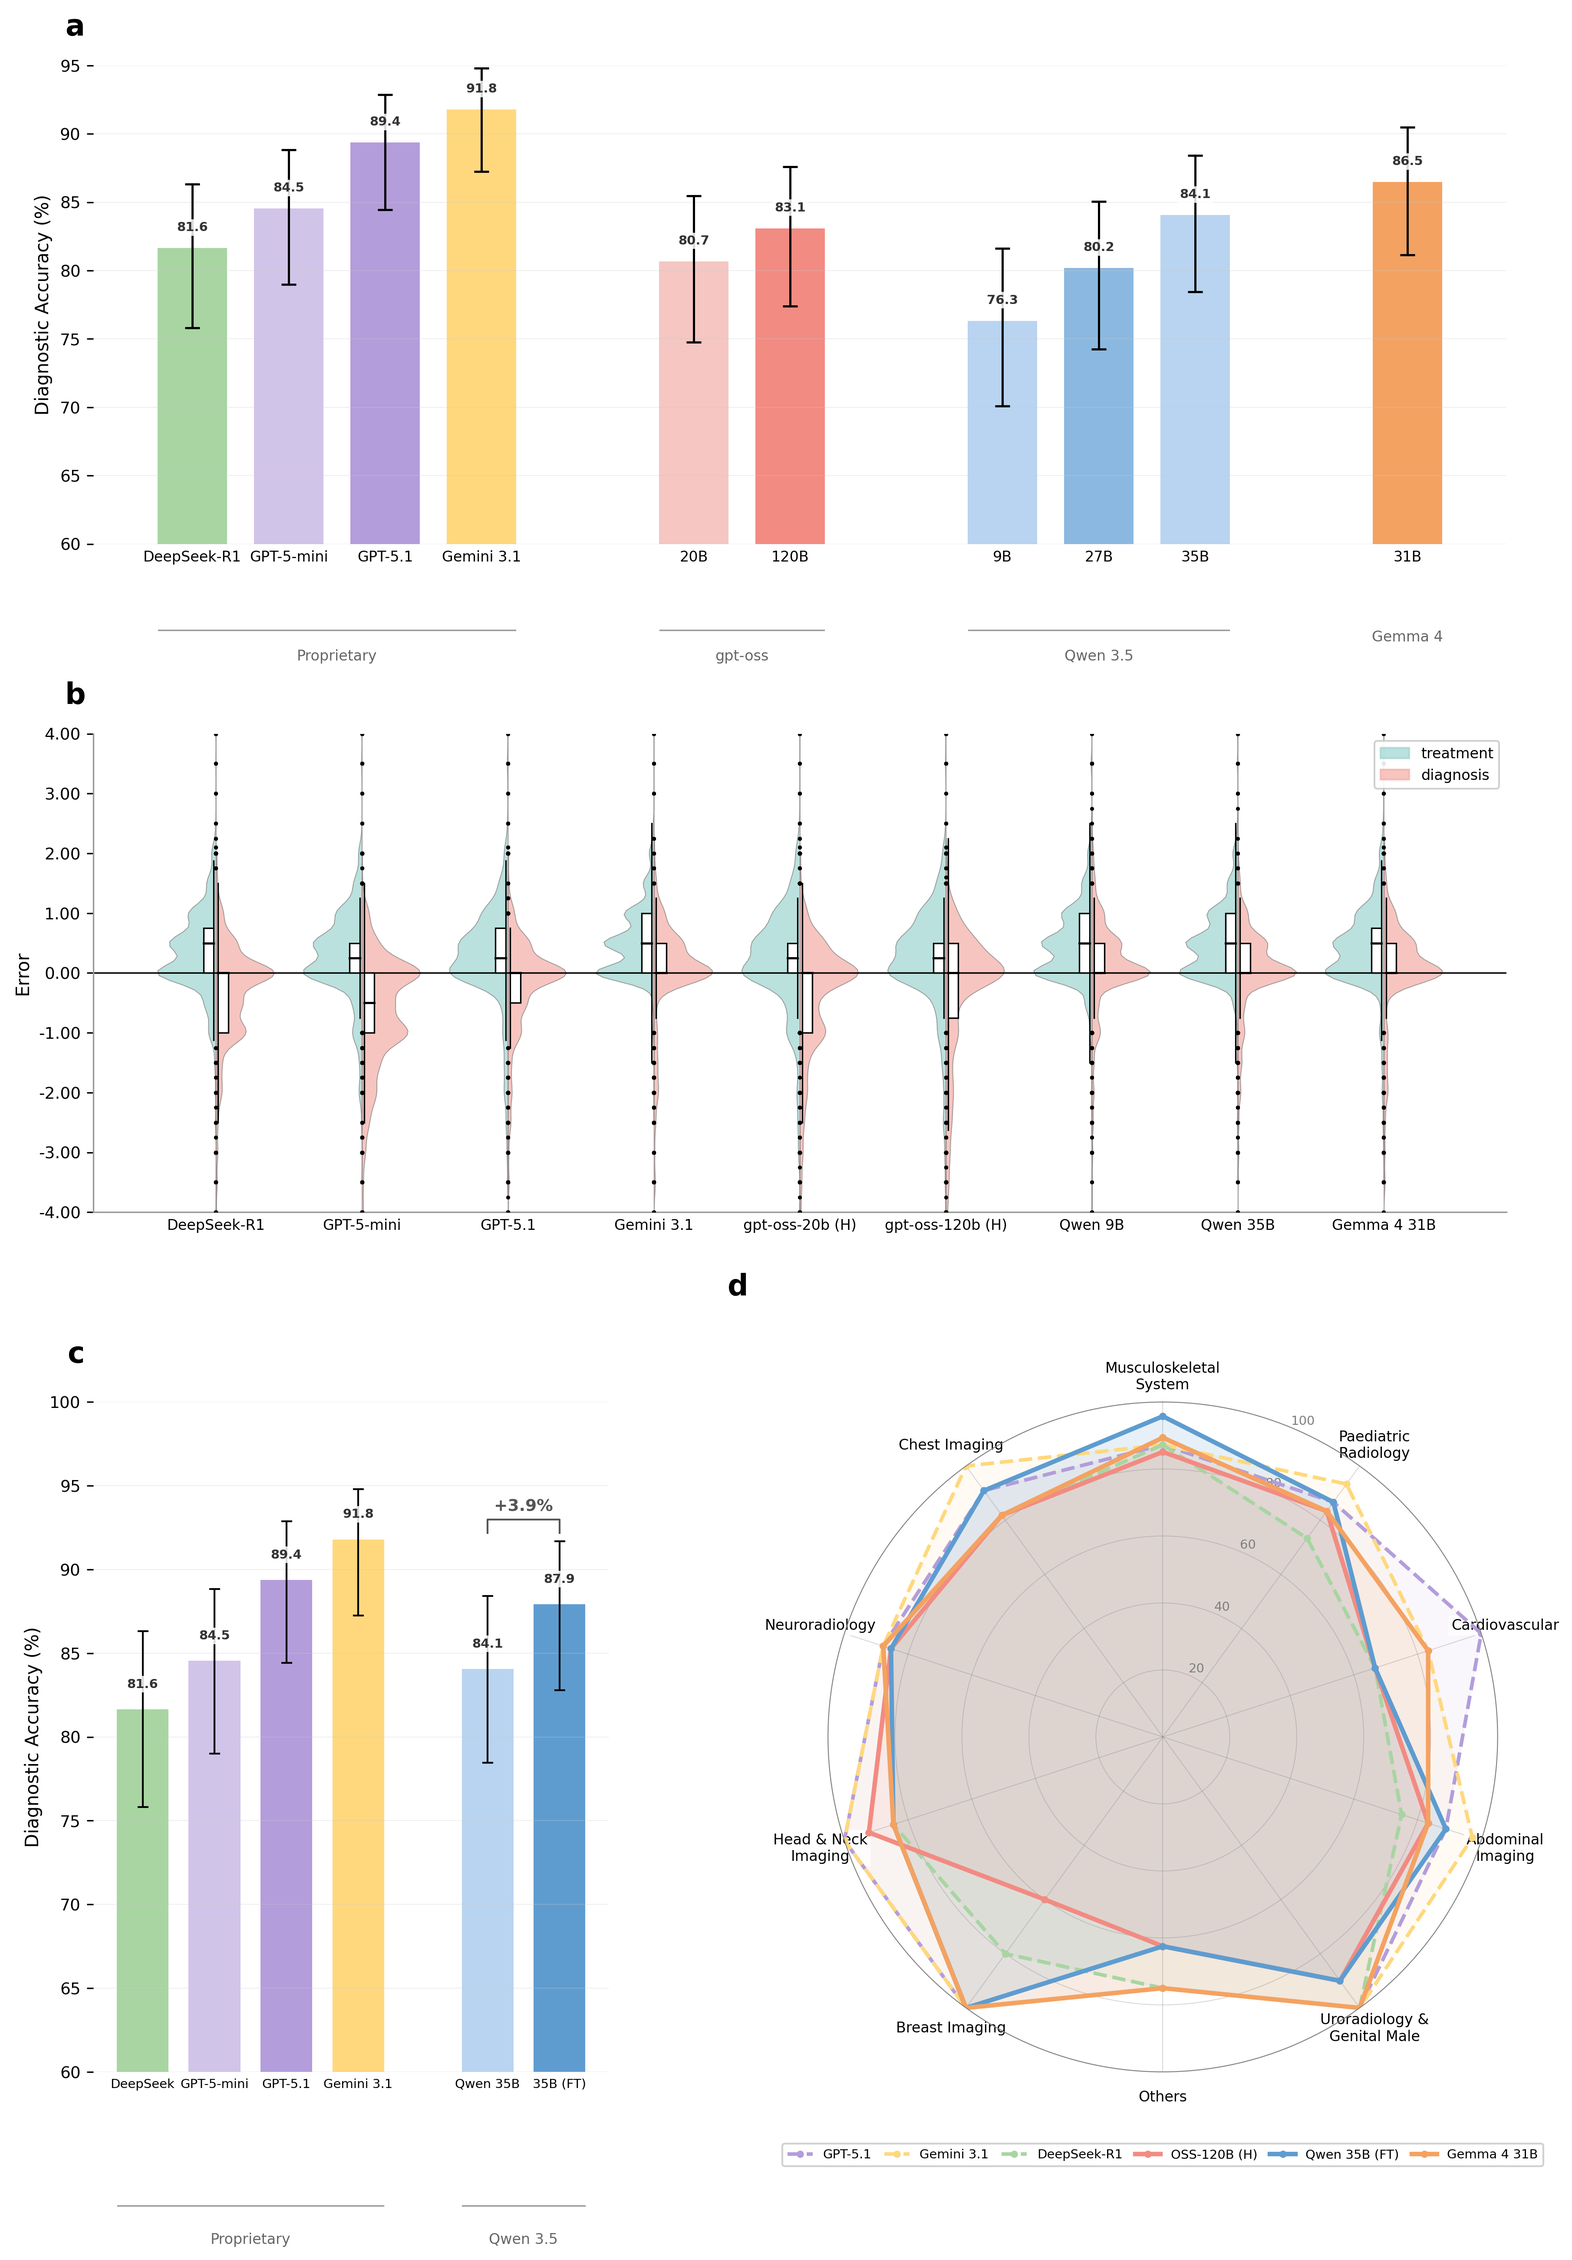
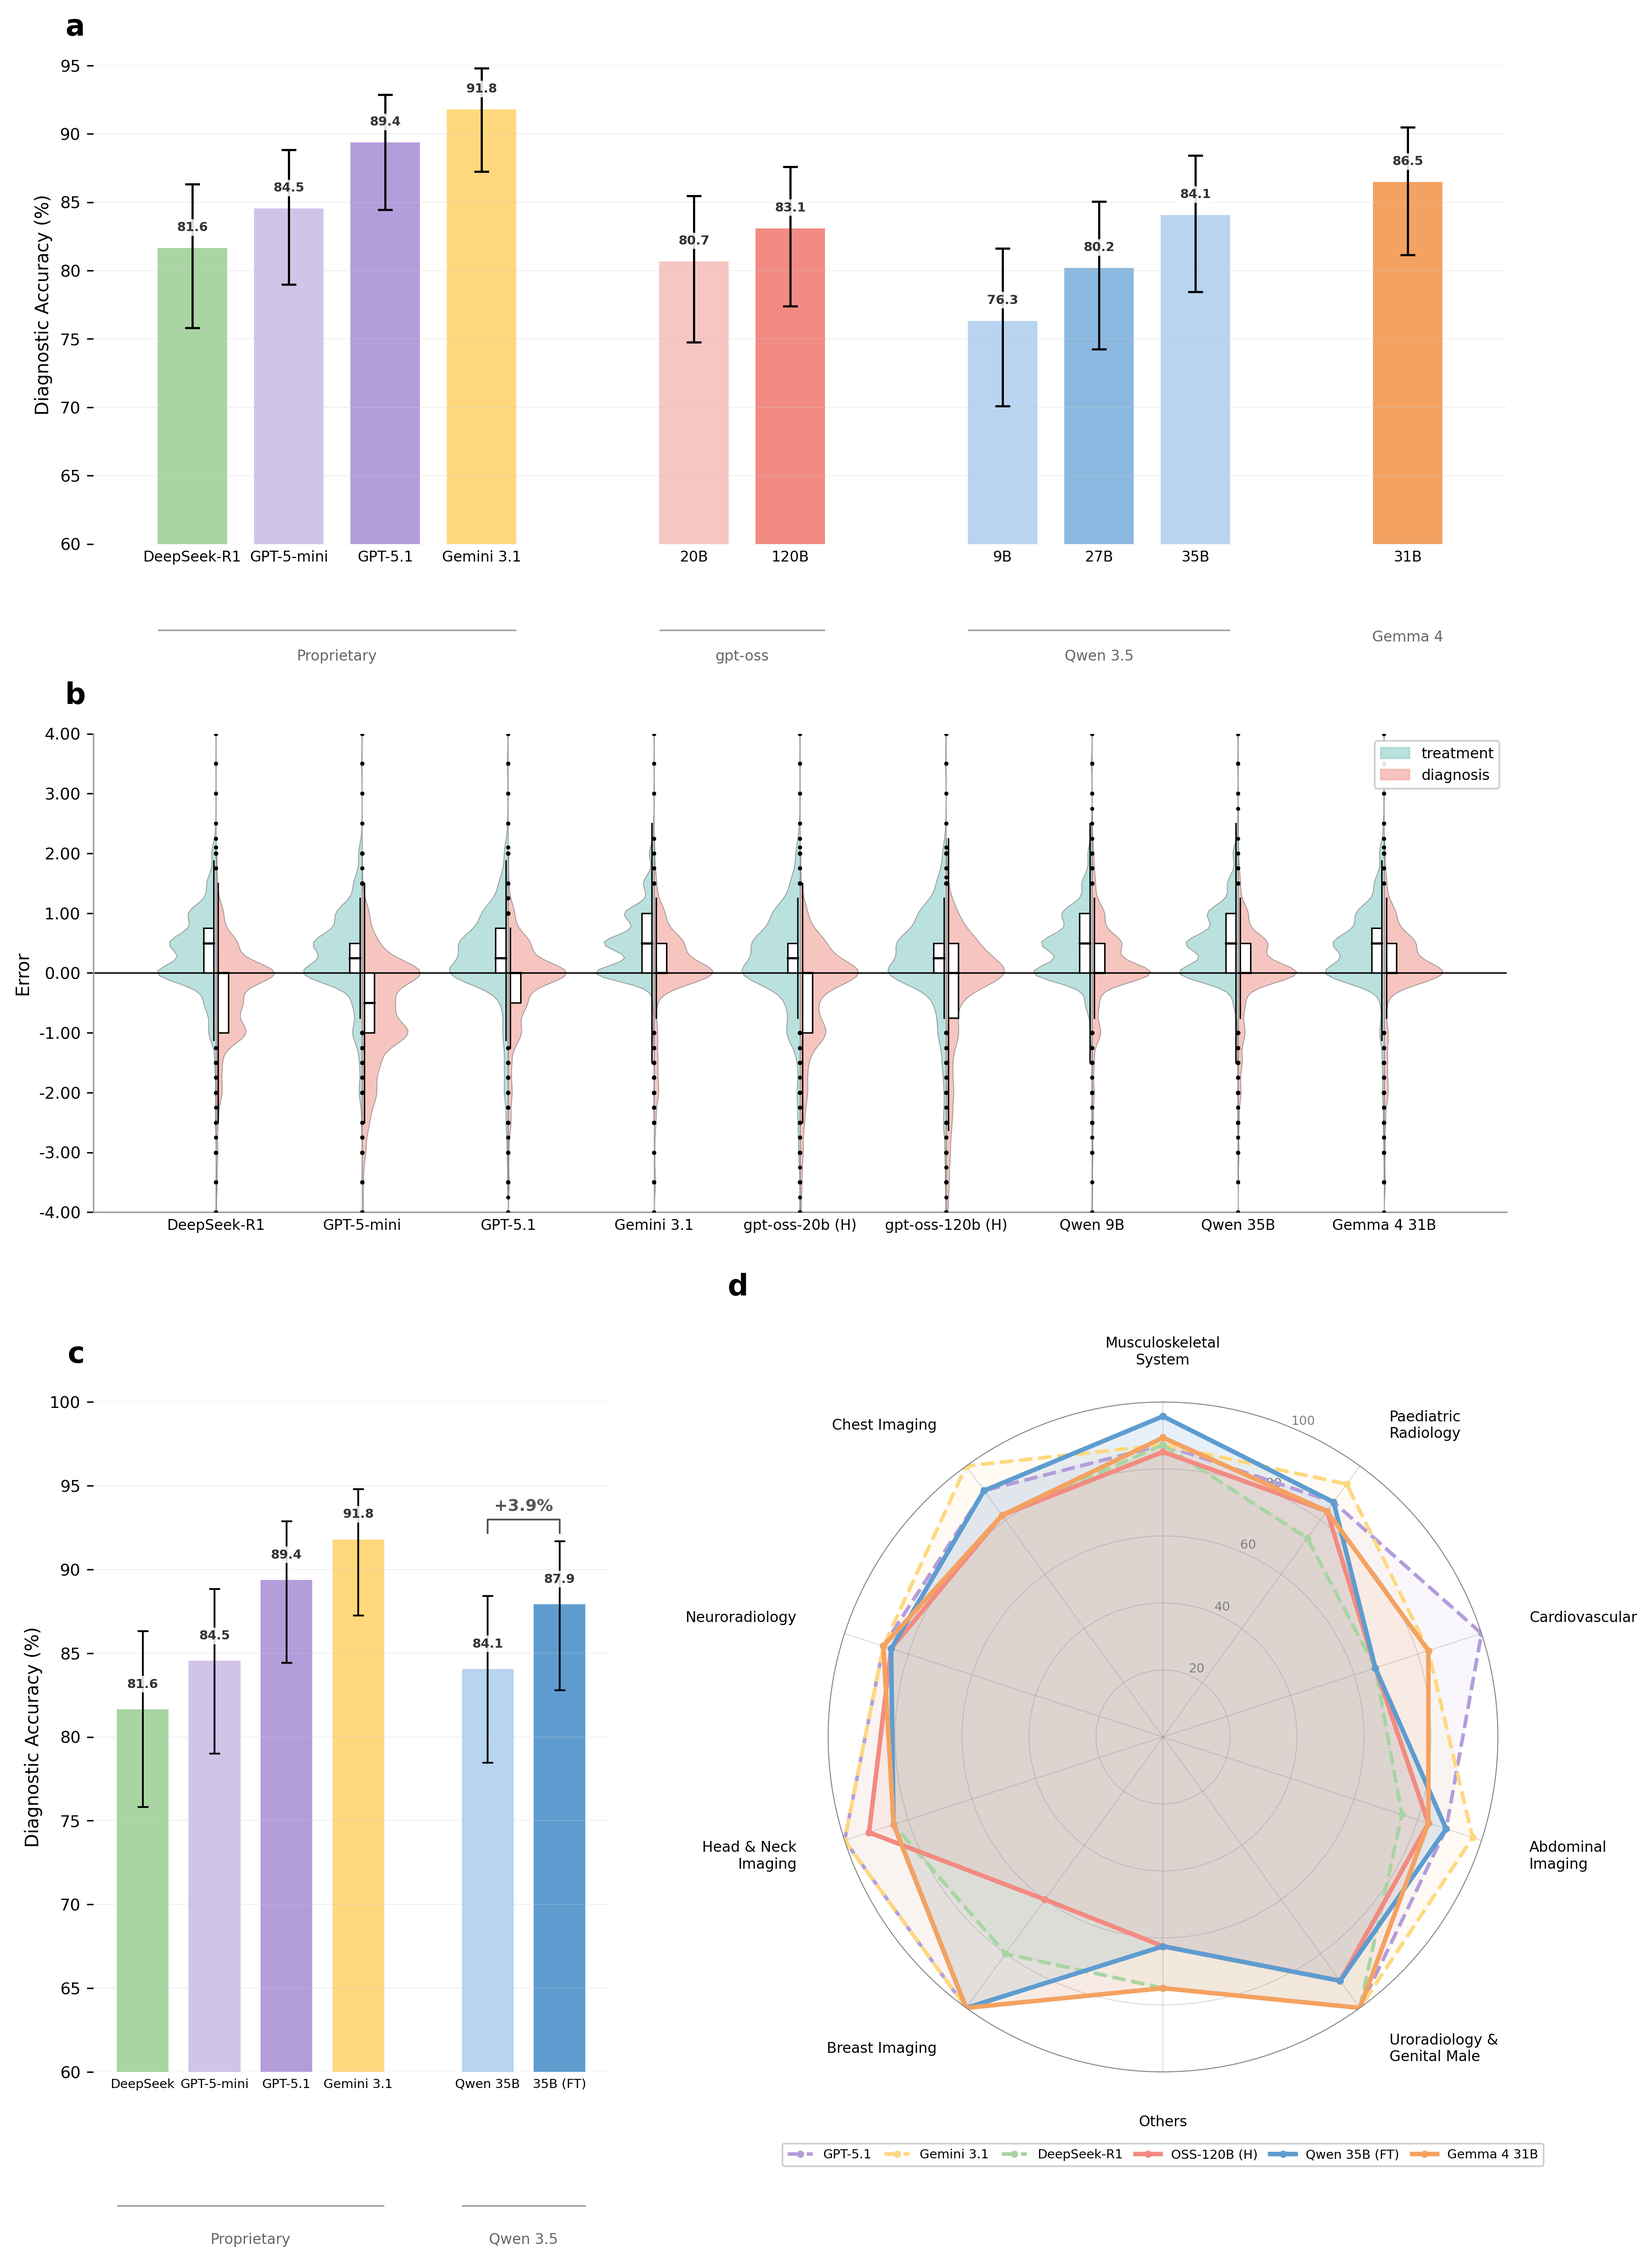
Bring radar subplot labels to foreground in Fig 2d
Draw category labels after plot lines using manual polar-coord text
with white background so they render on top of the radar traces.

diff --git a/figures/combined_figure.py b/figures/combined_figure.py
@@ -298,8 +298,7 @@ def panel_radar(ax):
     ax.yaxis.grid(True, color="grey", alpha=0.3, linewidth=0.5)
     ax.xaxis.grid(True, color="grey", alpha=0.3, linewidth=0.5)
     ax.set_xticks(angles[:-1])
-    ax.set_xticklabels([SECTION_LABELS[s] for s in SECTION_ORDER],
-                       fontsize=8, fontweight="medium")
+    ax.set_xticklabels([])  # suppress default labels; we'll draw them manually
 
     for model_name in RADAR_MODELS:
         accs = [results[model_name][sec] for sec in SECTION_ORDER]
@@ -309,9 +308,20 @@ def panel_radar(ax):
                 color=style["color"], label=model_name, marker="o", markersize=3)
         ax.fill(angles, accs, alpha=style["fill_alpha"], color=style["color"])
 
-    for label in ax.get_xticklabels():
-        label.set_zorder(10)
-        label.set_bbox(dict(facecolor="white", edgecolor="none", pad=1.5, alpha=0.85))
+    # Draw category labels on top of plot lines using polar data coords
+    label_r = 115
+    for angle, sec in zip(angles[:-1], SECTION_ORDER):
+        cos_val = np.cos(angle - np.pi / 2)
+        if cos_val > 0.1:
+            ha = "left"
+        elif cos_val < -0.1:
+            ha = "right"
+        else:
+            ha = "center"
+        ax.text(angle, label_r, SECTION_LABELS[sec],
+                ha=ha, va="center", fontsize=8, fontweight="medium",
+                bbox=dict(facecolor="white", edgecolor="none", pad=2, alpha=0.9),
+                zorder=20)
 
     ax.legend(loc="lower center", bbox_to_anchor=(0.5, -0.15),
               fontsize=7, framealpha=0.9, edgecolor="#cccccc",

diff --git a/figures/eurorad_radar_plot.py b/figures/eurorad_radar_plot.py
@@ -153,10 +153,9 @@ def plot(output=None):
     ax.yaxis.grid(True, color="grey", alpha=0.3, linewidth=0.5)
     ax.xaxis.grid(True, color="grey", alpha=0.3, linewidth=0.5)
 
-    # Angular axis
+    # Angular axis — suppress default labels; we draw them manually after plotting
     ax.set_xticks(angles[:-1])
-    ax.set_xticklabels([SECTION_LABELS[s] for s in SECTION_ORDER],
-                       fontsize=10, fontweight="medium")
+    ax.set_xticklabels([])
 
     # Plot each model
     for model_name in MODELS:
@@ -169,6 +168,22 @@ def plot(output=None):
                 color=style["color"], label=model_name,
                 marker="o", markersize=4)
         ax.fill(angles, accs, alpha=style["fill_alpha"], color=style["color"])
+
+    # Draw category labels on top of plot lines using polar data coords
+    label_r = 115  # radial position beyond the 0-100 data range
+    for angle, sec in zip(angles[:-1], SECTION_ORDER):
+        # Determine horizontal alignment based on position around the circle
+        cos_val = np.cos(angle - np.pi / 2)
+        if cos_val > 0.1:
+            ha = "left"
+        elif cos_val < -0.1:
+            ha = "right"
+        else:
+            ha = "center"
+        ax.text(angle, label_r, SECTION_LABELS[sec],
+                ha=ha, va="center", fontsize=10, fontweight="medium",
+                bbox=dict(facecolor="white", edgecolor="none", pad=2, alpha=0.9),
+                zorder=20)
 
     # Legend (horizontal, below the plot)
     ax.legend(loc="lower center", bbox_to_anchor=(0.5, -0.15),
